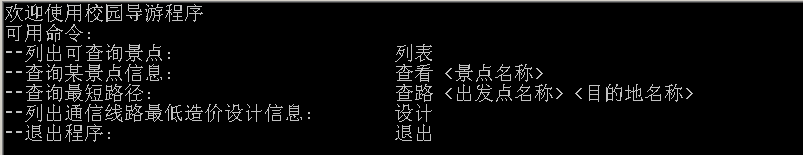
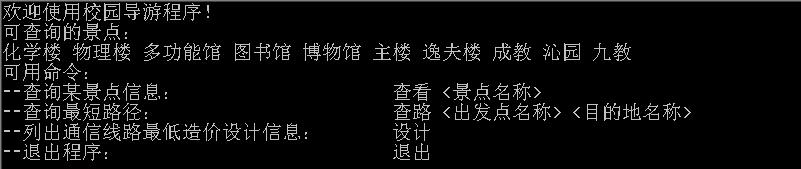
post

Changed region(s): [[0.0, 0.0, 1.0, 1.0], [0.4682, 0.4129, 0.8739, 0.9548]]

diff --git a/_posts/2018-12-01-数据结构课程设计.md b/_posts/2018-12-01-数据结构课程设计.md
@@ -55,7 +55,7 @@ int main()
     while (run)
     {
         system("cls");
-        ShowMenu();
+        ShowMenu(graph);
         run = Option(graph);
         system("pause");
     }
@@ -71,22 +71,23 @@ int main()
 #include <fstream>
 #include "graph.h"
 bool ReadData(Graph *&graph);
-void ShowMenu();
+void ShowMenu(Graph *&graph);
 bool Option(Graph *&graph);
 ```
 
 ```cpp
 //allmain.cpp
 #include "allmain.h"
-Map cmdList{
-    {"列表", 1}, {"查看", 2}, {"查路", 3}, {"设计", 4}, {"退出", 5}
+Map cmdList
+{
+    {"查看", 1}, {"查路", 2}, {"设计", 3}, {"退出", 4}
 };
 bool ReadData(Graph *&graph)
 {
     ifstream fin("graph_data.dat", ios::in);
     if(!fin)
     {
-        cout << "Read Error" << endl;
+        cout << "打开文件失败" << endl;
         return false;
     }
     int numVertex, numEdge;
@@ -113,15 +114,16 @@ bool ReadData(Graph *&graph)
     return 1;
 }
 
-void ShowMenu()
+void ShowMenu(Graph*& graph)
 {
-    cout <<"欢迎使用校园导游程序"<<endl
-         <<"可用命令:"<<endl
-         <<"--列出可查询景点:                      列表"<<endl
-         <<"--查询某景点信息:                      查看 <景点名称>"<<endl
-         <<"--查询最短路径:                        查路 <出发点名称> <目的地名称>"<<endl
-         <<"--列出通信线路最低造价设计信息:        设计"<<endl
-         <<"--退出程序:                            退出"<<endl;
+    cout << "欢迎使用校园导游程序！" << endl
+         << "可查询的景点：" << endl;
+    graph->DisplayAll();
+    cout << "可用命令：" << endl
+         << "--查询某景点信息：                     查看 <景点名称>" << endl
+         << "--查询最短路径：                       查路 <出发点名称> <目的地名称>" << endl
+         << "--列出通信线路最低造价设计信息：       设计" << endl
+         << "--退出程序：                           退出" << endl;
 }
 bool Option(Graph *&graph)
 {
@@ -130,20 +132,18 @@ bool Option(Graph *&graph)
     switch (cmdList[cmd])
     {
     case 1:
-        graph->DisplayAll();
-        break;
-    case 2:
         cin >> src;
         graph->DisplayData(src);
         break;
-    case 3:
+    case 2:
         cin >> src >> dst;
         graph->PrintShortestPath(src, dst);
         break;
-    case 4:
+    case 3:
         graph->PrintMST();
         break;
-    case 5:
+    case 4:
+        cout << "感谢使用！" << endl;
         return false;
     default:
         cout << "找不到\"" << cmd << "\"该命令，请重新输入。" << endl;
@@ -234,7 +234,7 @@ void Graph::InsertVertex(Vertex &V)
         map[V.name] = numVertex++;
     }
     else
-		cout << "点的信息与已有的重复"<<endl;
+        cout << "点的信息与已有的重复" << endl;
 }
 void Graph::InsertEdge(Edge &E)
 {
@@ -250,9 +250,8 @@ void Graph::InsertEdge(Edge &E)
 }
 void Graph::DisplayAll()
 {
-    for (int i = 0; i < numVertex; ++i)
-        cout << data[i].name << " ";
-    cout << endl;
+    for (int i = 1; i <= numVertex; ++i)
+        cout << data[i - 1].name << (((i % 10 != 0) && (i != numVertex)) ? ' ' : '\n');
 }
 void Graph::DisplayData(string &name)
 {
@@ -266,17 +265,22 @@ void Graph::DisplayData(string &name)
     else
         cout << "找不到\"" << name << "\"该景点。" << endl;
 }
-void Graph::PrintShortestPath(string& src, string& dst)
+
+//最小生成树Prim算法
+int Graph::FindMinDist(double dist[])
 {
-    if (map.find(src) != map.end() && map.find(dst) != map.end())
-    {
-        Floyd();
-        cout << src << "->";
-        PrintInBetweenVertex(map[src], map[dst]);
-        cout << dst << endl;
-    }
+    int minV, V;
+    double minDist = DBL_MAX;
+    for (V = START; V < END(numVertex); ++V)
+        if (dist[V] != COLLECTED && dist[V] < minDist)
+        {
+            minDist = dist[V];
+            minV = V;
+        }
+    if (minDist < DBL_MAX)
+        return minV;
     else
-        cout << "出发地或目的地名称输入错误。" << endl;
+        return ERROR;
 }
 double Graph::Prim()
 {
@@ -310,16 +314,21 @@ void Graph::PrintMST()
 {
     cout << "最低造价：" << Prim() << endl;
     for (int i = 0; i < MST.size(); ++i)
-		cout << MST[i].v1 << "---" << MST[i].length << "---" << MST[i].v2 << endl;
+        cout << MST[i].v1 << "---" << MST[i].length << "---" << MST[i].v2 << endl;
 }
 
-void Graph::PrintInBetweenVertex(int src, int dst)
+//最短路径Floyd算法
+void Graph::PrintShortestPath(string& src, string& dst)
 {
-    if (path[src][dst] == -1)
-        return;
-    PrintInBetweenVertex(src, path[src][dst]);
-    cout << data[path[src][dst]].name << "->";
-    PrintInBetweenVertex(path[src][dst], dst);
+    if (map.find(src) != map.end() && map.find(dst) != map.end())
+    {
+        Floyd();
+        cout << src << "->";
+        PrintInBetweenVertex(map[src], map[dst]);
+        cout << dst << endl;
+    }
+    else
+        cout << "出发地或目的地名称输入错误。" << endl;
 }
 void Graph::Floyd()
 {
@@ -341,22 +350,14 @@ void Graph::Floyd()
                     path[i][j] = k;
                 }
 }
-int Graph::FindMinDist(double dist[])
+void Graph::PrintInBetweenVertex(int src, int dst)
 {
-    int minV, V;
-    double minDist = DBL_MAX;
-    for (V = START; V < END(numVertex); ++V)
-        if (dist[V] != COLLECTED && dist[V] < minDist)
-        {
-            minDist = dist[V];
-            minV = V;
-        }
-    if (minDist < DBL_MAX)
-        return minV;
-    else
-        return ERROR;
+    if (path[src][dst] == -1)
+        return;
+    PrintInBetweenVertex(src, path[src][dst]);
+    cout << data[path[src][dst]].name << "->";
+    PrintInBetweenVertex(path[src][dst], dst);
 }
-
 ```
 
 ### 数据文件(只读)
@@ -402,7 +403,6 @@ edge_data:
 九教 图书馆 20
 主楼 沁园 120
 物理楼 博物馆 20
-
 ```
 
 ## 测试输出
